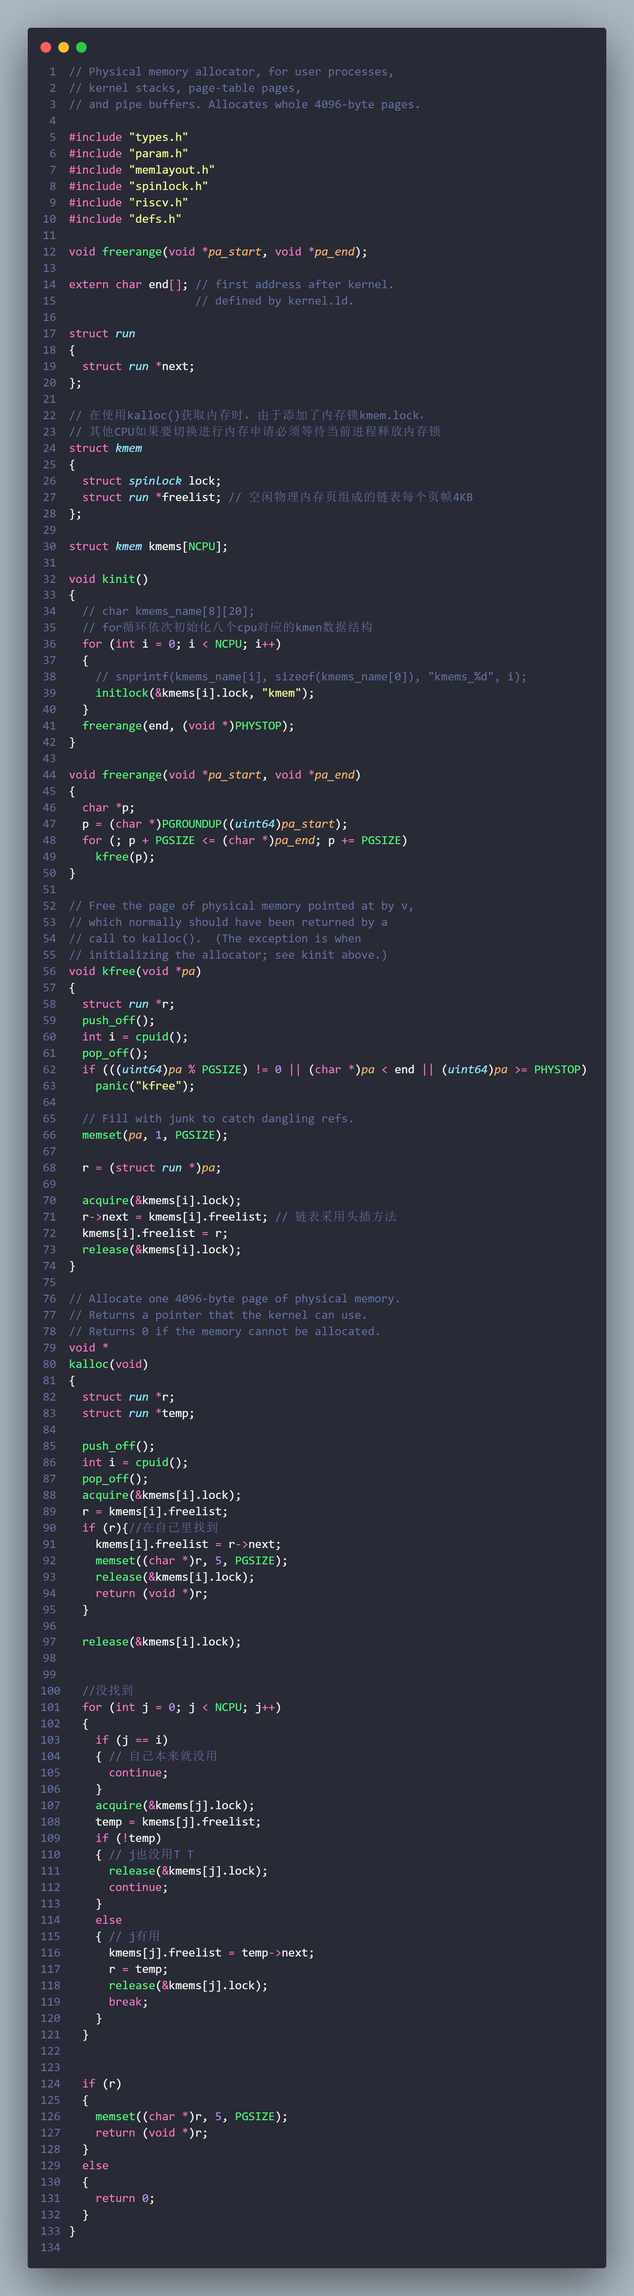
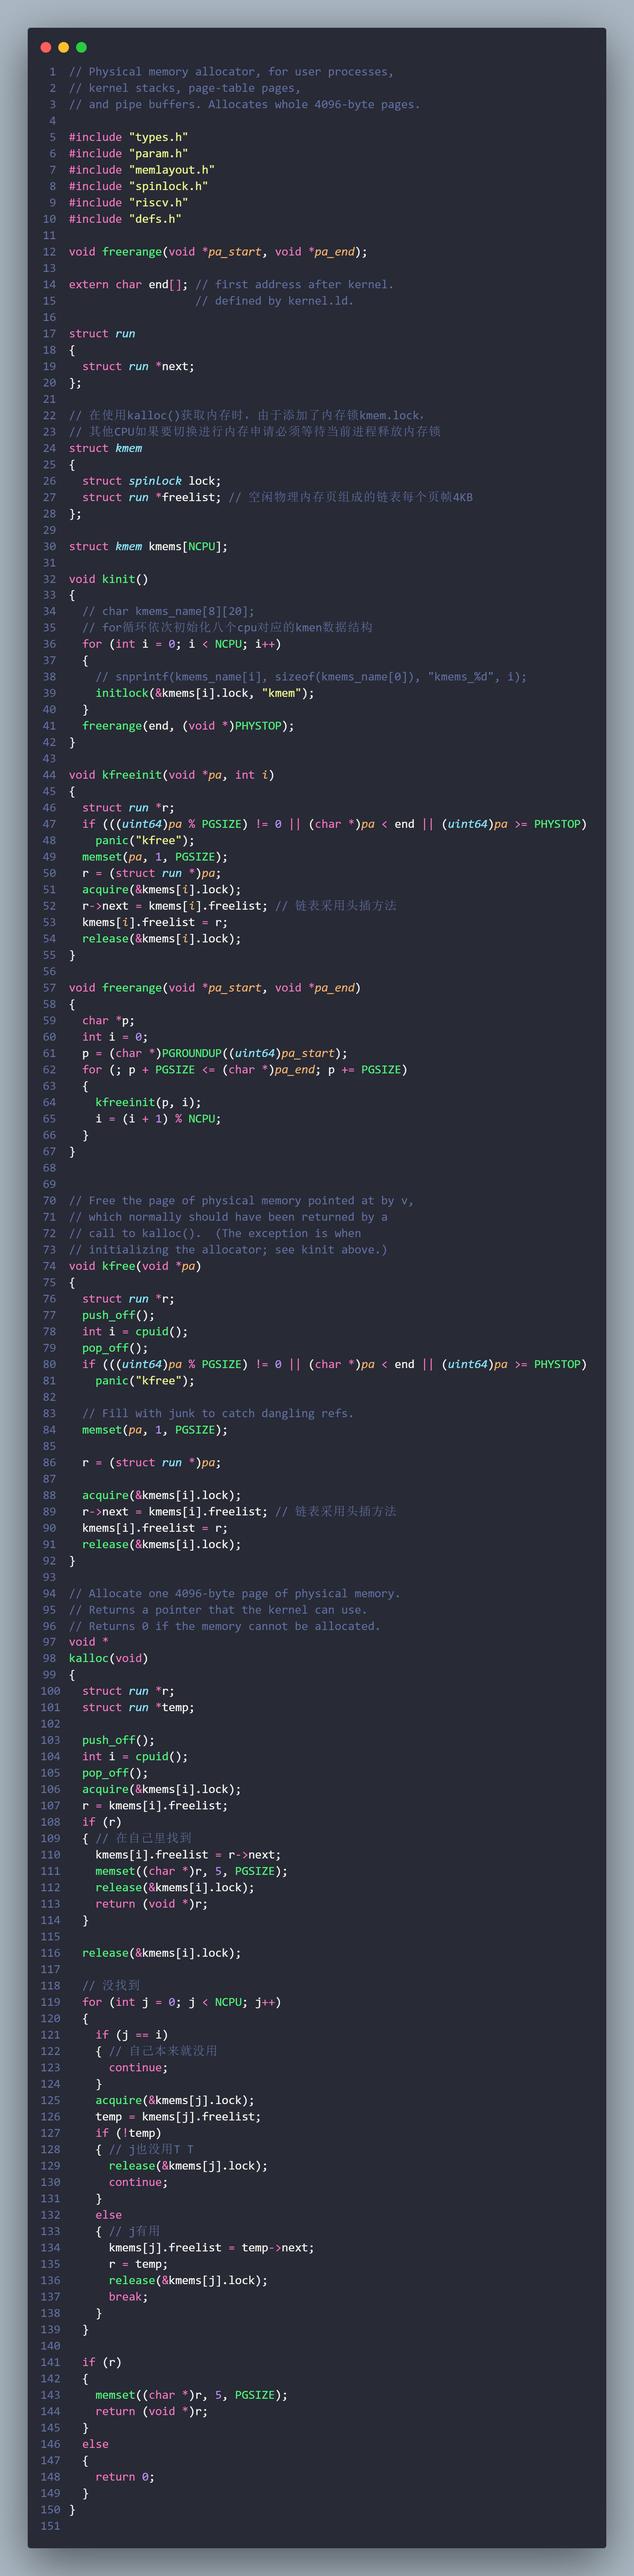
lab3:task2

diff --git a/kernel/bio.c b/kernel/bio.c
@@ -13,7 +13,6 @@
 // * Only one process at a time can use a buffer,
 //     so do not keep them longer than necessary.
 
-
 #include "types.h"
 #include "param.h"
 #include "spinlock.h"
@@ -22,80 +21,176 @@
 #include "defs.h"
 #include "fs.h"
 #include "buf.h"
+#define NBUCKETS 13
 
-struct {
-  struct spinlock lock;
+// struct {
+//   struct spinlock lock;
+//   struct buf buf[NBUF];
+
+//   // Linked list of all buffers, through prev/next.
+//   // Sorted by how recently the buffer was used.
+//   // head.next is most recent, head.prev is least.
+//   struct buf head;
+// } bcache;
+
+struct
+{
+  struct spinlock lock[NBUCKETS];
+  struct spinlock gloablock;
   struct buf buf[NBUF];
-
   // Linked list of all buffers, through prev/next.
-  // Sorted by how recently the buffer was used.
-  // head.next is most recent, head.prev is least.
-  struct buf head;
+  // head.next is most recently used.
+  // struct buf head;
+  struct buf hashbucket[NBUCKETS]; // 每个哈希队列一个linked list及一个lock
 } bcache;
 
-void
-binit(void)
+void binit(void)
 {
   struct buf *b;
-
-  initlock(&bcache.lock, "bcache");
+  // initlock(&bcache.lock, "bcache");
+  for (int i = 0; i < NBUCKETS; i++)
+  {
+    initlock(&bcache.lock[i], "bcache");
+  }
+  initlock(&bcache.gloablock, "bcache");
 
   // Create linked list of buffers
-  bcache.head.prev = &bcache.head;
-  bcache.head.next = &bcache.head;
-  for(b = bcache.buf; b < bcache.buf+NBUF; b++){
-    b->next = bcache.head.next;
-    b->prev = &bcache.head;
+  // bcache.head.prev = &bcache.head;
+  // bcache.head.next = &bcache.head;
+  for (int i = 0; i < NBUCKETS; i++)
+  {
+    bcache.hashbucket[i].prev = &bcache.hashbucket[i];
+    bcache.hashbucket[i].next = &bcache.hashbucket[i];
+  }
+
+  int cnt = 0;
+  for (b = bcache.buf; b < bcache.buf + NBUF; b++)
+  {
+    // b->next = bcache.head.next;
+    // b->prev = &bcache.head;
+    // initsleeplock(&b->lock, "buffer");
+    // bcache.head.next->prev = b;
+    // bcache.head.next = b; //相当于在头部插入了b且是一个类似双向链表的结构（循环链表）
+    b->next = bcache.hashbucket[cnt].next;
+    b->prev = &bcache.hashbucket[cnt];
     initsleeplock(&b->lock, "buffer");
-    bcache.head.next->prev = b;
-    bcache.head.next = b;
+    bcache.hashbucket[cnt].next->prev = b;
+    bcache.hashbucket[cnt].next = b;
+    cnt = (cnt + 1) % NBUCKETS;
   }
 }
 
 // Look through buffer cache for block on device dev.
 // If not found, allocate a buffer.
 // In either case, return locked buffer.
-static struct buf*
+static struct buf *
 bget(uint dev, uint blockno)
 {
   struct buf *b;
-
-  acquire(&bcache.lock);
-
+  int hashnum = blockno % NBUCKETS;
+  acquire(&bcache.lock[hashnum]);
   // Is the block already cached?
-  for(b = bcache.head.next; b != &bcache.head; b = b->next){
-    if(b->dev == dev && b->blockno == blockno){
+  for (b = bcache.hashbucket[hashnum].next; b != &bcache.hashbucket[hashnum]; b = b->next)
+  { // 从循环链表的前面往后面找
+    if (b->dev == dev && b->blockno == blockno)
+    { // 命中
       b->refcnt++;
-      release(&bcache.lock);
+      release(&bcache.lock[hashnum]);
       acquiresleep(&b->lock);
       return b;
     }
   }
-
   // Not cached.
   // Recycle the least recently used (LRU) unused buffer.
-  for(b = bcache.head.prev; b != &bcache.head; b = b->prev){
-    if(b->refcnt == 0) {
+  for (b = bcache.hashbucket[hashnum].prev; b != &bcache.hashbucket[hashnum]; b = b->prev)
+  { // 从循环链表的后面往前找
+    if (b->refcnt == 0)
+    { // 找到一个最不经常使用且引用为0的block
       b->dev = dev;
       b->blockno = blockno;
       b->valid = 0;
       b->refcnt = 1;
-      release(&bcache.lock);
+      release(&bcache.lock[hashnum]);
+      acquiresleep(&b->lock); // 获得对缓冲区的锁
+      return b;
+    }
+  }
+
+  // 1.找不到以后释放锁,至此函数不持有任何锁
+  release(&bcache.lock[hashnum]);
+  // 2.1获取全局锁
+  acquire(&bcache.gloablock);
+  // 2.2获取哈希桶的锁
+  acquire(&bcache.lock[hashnum]);
+  // 2.3是否有已经缓存
+  for (b = bcache.hashbucket[hashnum].next; b != &bcache.hashbucket[hashnum]; b = b->next)
+  {
+    if (b->dev == dev && b->blockno == blockno)
+    {
+      b->refcnt++;
+      release(&bcache.lock[hashnum]);
+      release(&bcache.gloablock);
       acquiresleep(&b->lock);
       return b;
     }
   }
+  // 2.4该哈希桶有无空闲
+  for (b = bcache.hashbucket[hashnum].prev; b != &bcache.hashbucket[hashnum]; b = b->prev)
+  {
+    if (b->refcnt == 0)
+    {
+      b->dev = dev;
+      b->blockno = blockno;
+      b->valid = 0;
+      b->refcnt = 1;
+      release(&bcache.lock[hashnum]);
+      release(&bcache.gloablock);
+      acquiresleep(&b->lock);
+      return b;
+    }
+  }
+  // 3.要从其他桶内查找可用空闲块并分配
+  for (int i = 0; i < NBUCKETS; i++)
+  {
+    if (i == hashnum)
+    {
+      continue;
+    }
+    acquire(&bcache.lock[i]);
+    for (b = bcache.hashbucket[i].prev; b != &bcache.hashbucket[i]; b = b->prev)
+    {
+      if (b->refcnt == 0)
+      {
+        b->dev = dev;
+        b->blockno = blockno;
+        b->valid = 0;
+        b->refcnt = 1;
+        release(&bcache.lock[i]);
+        release(&bcache.lock[hashnum]);
+        release(&bcache.gloablock);
+        acquiresleep(&b->lock);
+        return b;
+      }
+    }
+    release(&bcache.lock[i]);
+  }
+
+  // 最后：返回所有锁
+  release(&bcache.lock[hashnum]);
+  release(&bcache.gloablock);
+
   panic("bget: no buffers");
 }
 
 // Return a locked buf with the contents of the indicated block.
-struct buf*
+struct buf *
 bread(uint dev, uint blockno)
 {
   struct buf *b;
 
   b = bget(dev, blockno);
-  if(!b->valid) {
+  if (!b->valid)
+  {
     virtio_disk_rw(b, 0);
     b->valid = 1;
   }
@@ -103,51 +198,55 @@ bread(uint dev, uint blockno)
 }
 
 // Write b's contents to disk.  Must be locked.
-void
-bwrite(struct buf *b)
+void bwrite(struct buf *b)
 {
-  if(!holdingsleep(&b->lock))
+  if (!holdingsleep(&b->lock))
     panic("bwrite");
   virtio_disk_rw(b, 1);
 }
 
 // Release a locked buffer.
 // Move to the head of the most-recently-used list.
-void
-brelse(struct buf *b)
+void brelse(struct buf *b)
 {
-  if(!holdingsleep(&b->lock))
+  if (!holdingsleep(&b->lock))
     panic("brelse");
+
+  int bufnum = b->blockno;
+  int hashnum = bufnum % NBUCKETS;
 
   releasesleep(&b->lock);
 
-  acquire(&bcache.lock);
+  acquire(&bcache.lock[hashnum]);
   b->refcnt--;
-  if (b->refcnt == 0) {
+  if (b->refcnt == 0)
+  {
     // no one is waiting for it.
     b->next->prev = b->prev;
     b->prev->next = b->next;
-    b->next = bcache.head.next;
-    b->prev = &bcache.head;
-    bcache.head.next->prev = b;
-    bcache.head.next = b;
+    b->next = bcache.hashbucket[hashnum].next; // 归还的block插入在双向链表头部
+    b->prev = &bcache.hashbucket[hashnum];
+    bcache.hashbucket[hashnum].next->prev = b;
+    bcache.hashbucket[hashnum].next = b;
   }
-  
-  release(&bcache.lock);
+
+  release(&bcache.lock[hashnum]);
 }
 
-void
-bpin(struct buf *b) {
-  acquire(&bcache.lock);
+void bpin(struct buf *b)
+{
+  int bnum = b->blockno;
+  int hashnum = bnum % NBUCKETS;
+  acquire(&bcache.lock[hashnum]);
   b->refcnt++;
-  release(&bcache.lock);
+  release(&bcache.lock[hashnum]);
 }
 
-void
-bunpin(struct buf *b) {
-  acquire(&bcache.lock);
+void bunpin(struct buf *b)
+{
+  int bnum = b->blockno;
+  int hashnum = bnum % NBUCKETS;
+  acquire(&bcache.lock[hashnum]);
   b->refcnt--;
-  release(&bcache.lock);
+  release(&bcache.lock[hashnum]);
 }
-
-

diff --git a/README.md b/README.md
@@ -1,6 +1,13 @@
 ## lab3
 ### task1
 ##### kalloctest
+![alt text](assets/kalloctest.png)
+
+
+### task2
+##### bcachetest
 ![alt text](assets/image.png)
-##### make grade
-![alt text](assets/image-1.png)
+
+
+### make grade
+![alt text](assets/image-2.png)
